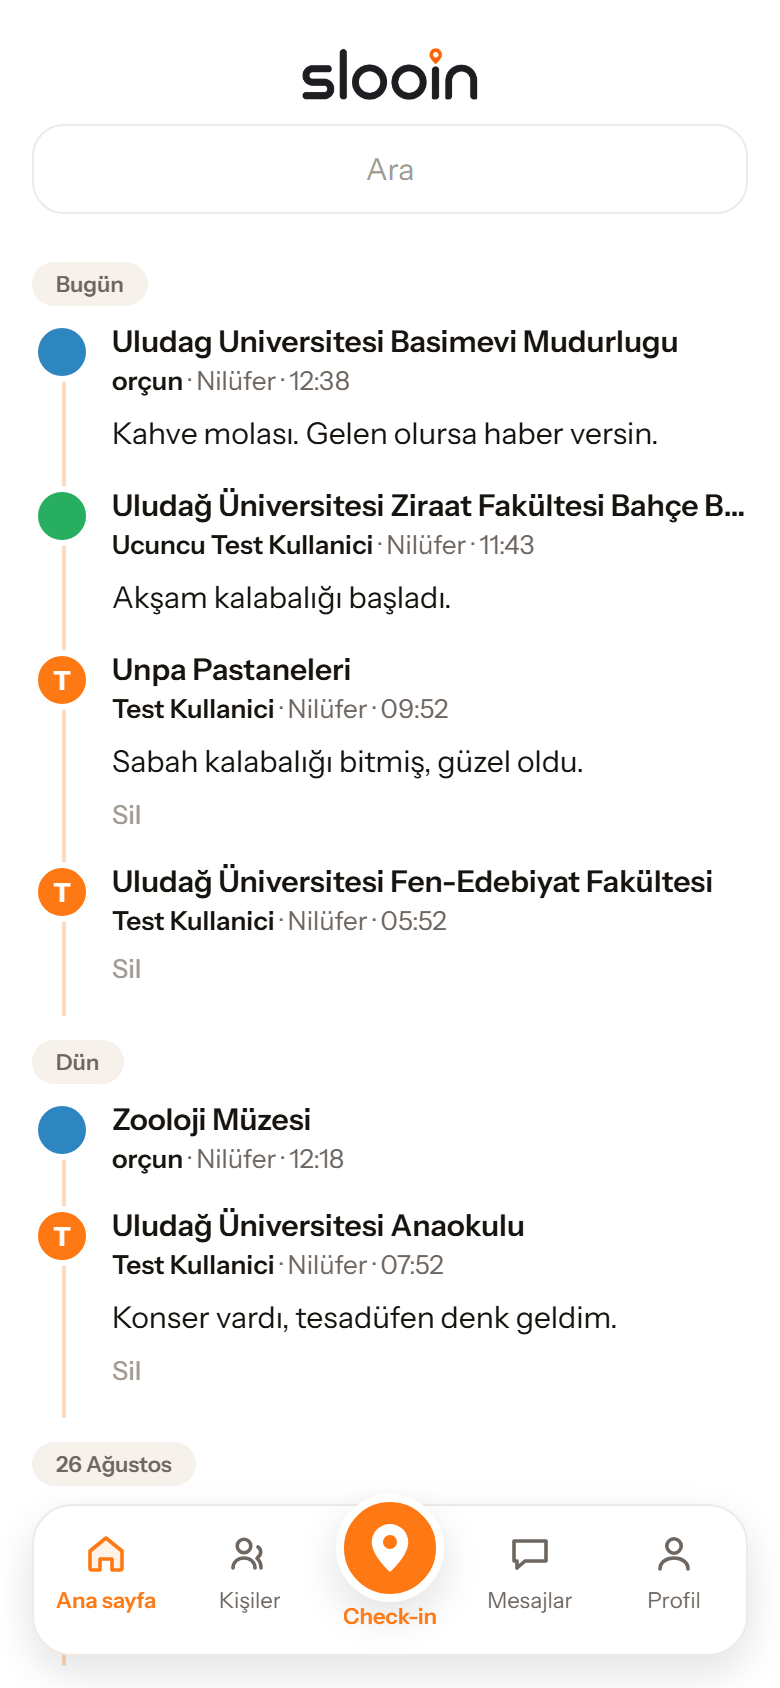
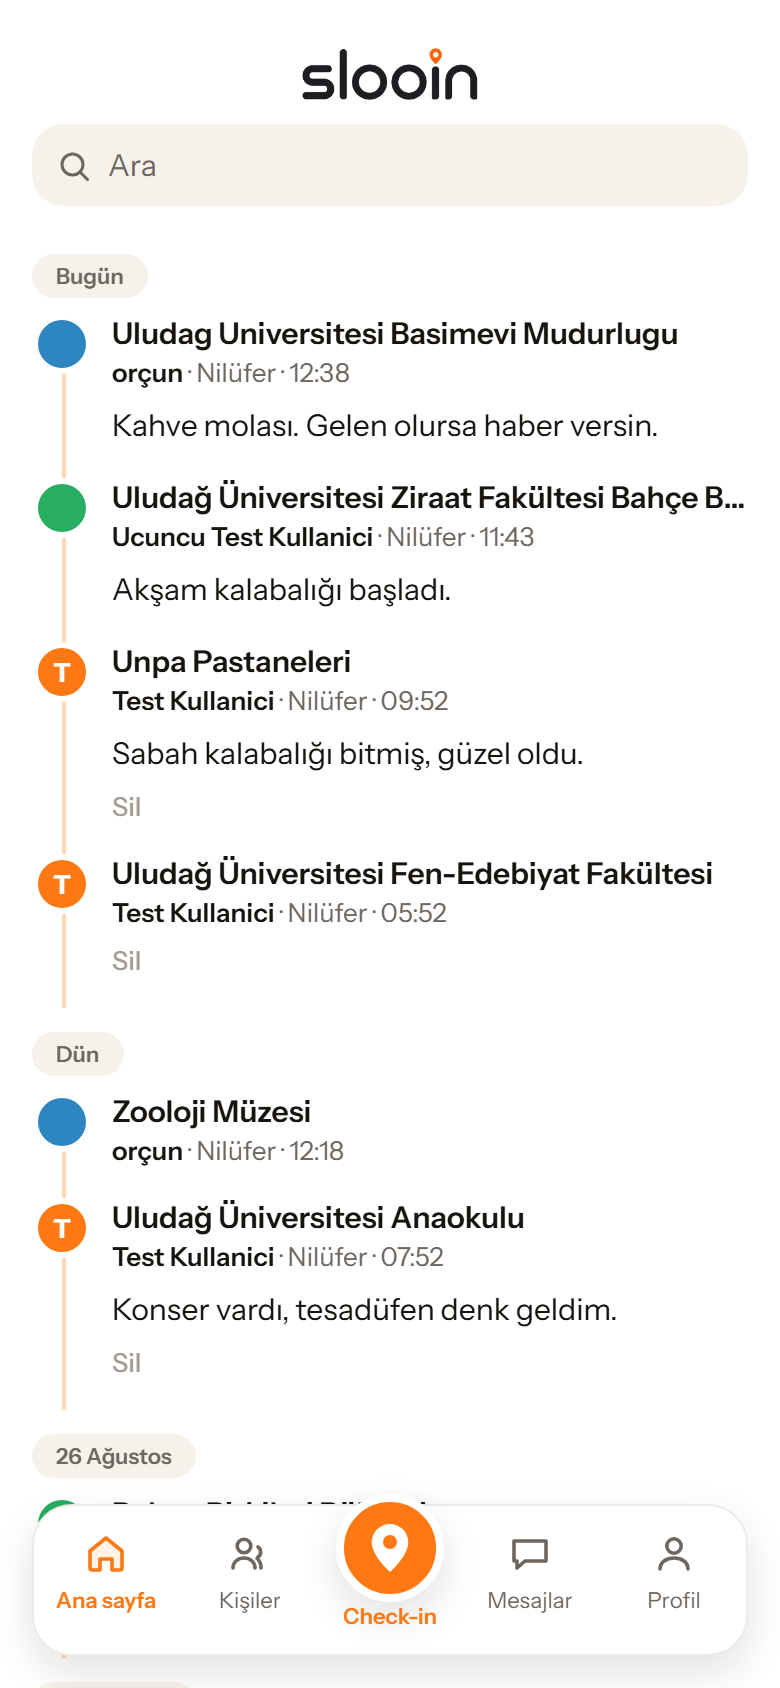
feat(anasayfa): arama kutusu Instagram duzenine gecti
Kullanicinin gonderdigi referans: kenarliksiz DOLGULU kutu, solda
buyutec ikonu, hemen yaninda sola dayali "Ara" yazisi.

Onceki hali beyaz zeminli-kenarlikliydi ve yazi ortaliydi (ayni gun
istenmisti; referans gelince degisti).

Dolgu tonu gun ayraclariyla ayni (#F6F1EB): beyaz sayfada kendini
belli ediyor ama dikkat cekmiyor. Yer tutucu rengi metinSoluk yerine
metinIkincil - dolgulu zeminde soluk ton okunmuyordu.

Yayindaki surumden ekran goruntusuyle dogrulandi. jest 52 paket /
459 test yesil, tsc taban.

Claude-Session: https://claude.ai/code/session_01RPADX9vz5pGDstg48GDVRa

diff --git a/mobil/src/app/index.tsx b/mobil/src/app/index.tsx
@@ -14,6 +14,28 @@ import { renk, yazi, olcek, bosluk, yuvarlak, golge } from '../tasarim/tema'
 import { MarkaYazisi } from '../tasarim/MarkaYazisi'
 import { ALT_GEZINME_PAYI } from '../tasarim/AltGezinme'
 
+/** Arama kutusunun basindaki buyutec. */
+function BuyutecIkonu() {
+  return (
+    <Svg width={18} height={18} viewBox="0 0 24 24">
+      <Circle
+        cx={11}
+        cy={11}
+        r={7}
+        stroke={renk.metinIkincil}
+        strokeWidth={2}
+        fill="none"
+      />
+      <Path
+        d="M16.5 16.5 21 21"
+        stroke={renk.metinIkincil}
+        strokeWidth={2}
+        strokeLinecap="round"
+      />
+    </Svg>
+  )
+}
+
 function KonumIkonu() {
   return (
     <Svg width={13} height={13} viewBox="0 0 24 24">
@@ -143,16 +165,22 @@ export default function AnaSayfa() {
         <MarkaYazisi genislik={88} />
       </View>
 
-      <TextInput
-        style={stiller.aramaKutusu}
-        placeholder={t('anaSayfa.aramaYerTutucu')}
-        placeholderTextColor={renk.metinSoluk}
-        autoCapitalize="none"
-        autoCorrect={false}
-        value={arama}
-        onChangeText={aramaDegisti}
-        returnKeyType="search"
-      />
+      {/* Instagram duzeni (kullanicinin gonderdigi referans): kenarliksiz
+          DOLGULU kutu, solda buyutec, hemen yaninda sola dayali metin.
+          Onceki hali beyaz zeminli-kenarlikliydi ve yazi ortaliydi. */}
+      <View style={stiller.aramaKutusu}>
+        <BuyutecIkonu />
+        <TextInput
+          style={stiller.aramaGirdisi}
+          placeholder={t('anaSayfa.aramaYerTutucu')}
+          placeholderTextColor={renk.metinIkincil}
+          autoCapitalize="none"
+          autoCorrect={false}
+          value={arama}
+          onChangeText={aramaDegisti}
+          returnKeyType="search"
+        />
+      </View>
 
       {hata && <Text style={stiller.hata}>{hata}</Text>}
 
@@ -286,20 +314,23 @@ const stiller = StyleSheet.create({
   // "slooin yazisini biraz kucult ve yukari ortaya koy"). Onceden
   // sola dayaliydi ve 104 genisligindeydi.
   aramaKutusu: {
+    flexDirection: 'row',
+    alignItems: 'center',
+    gap: bosluk.s,
     marginHorizontal: bosluk.l,
     marginBottom: bosluk.m,
-    backgroundColor: renk.yuzey,
-    borderWidth: 1,
-    borderColor: renk.cizgi,
+    // Kenarlik yok, dolgu var. Ton gun ayraclariyla ayni (#F6F1EB):
+    // beyaz sayfada kendini belli ediyor ama dikkat cekmiyor.
+    backgroundColor: '#F6F1EB',
     borderRadius: yuvarlak.kart,
-    paddingHorizontal: bosluk.l,
-    paddingVertical: 12,
+    paddingHorizontal: bosluk.m,
+    paddingVertical: 11,
+  },
+  aramaGirdisi: {
+    flex: 1,
     fontFamily: yazi.govde,
     fontSize: olcek.govde,
     color: renk.metin,
-    // Yer tutucu ve yazilan metin ORTALI (kullanicinin istegi
-    // 2026-08-28). textAlign ikisini birden ortaliyor.
-    textAlign: 'center',
   },
 
   ustCubuk: {
